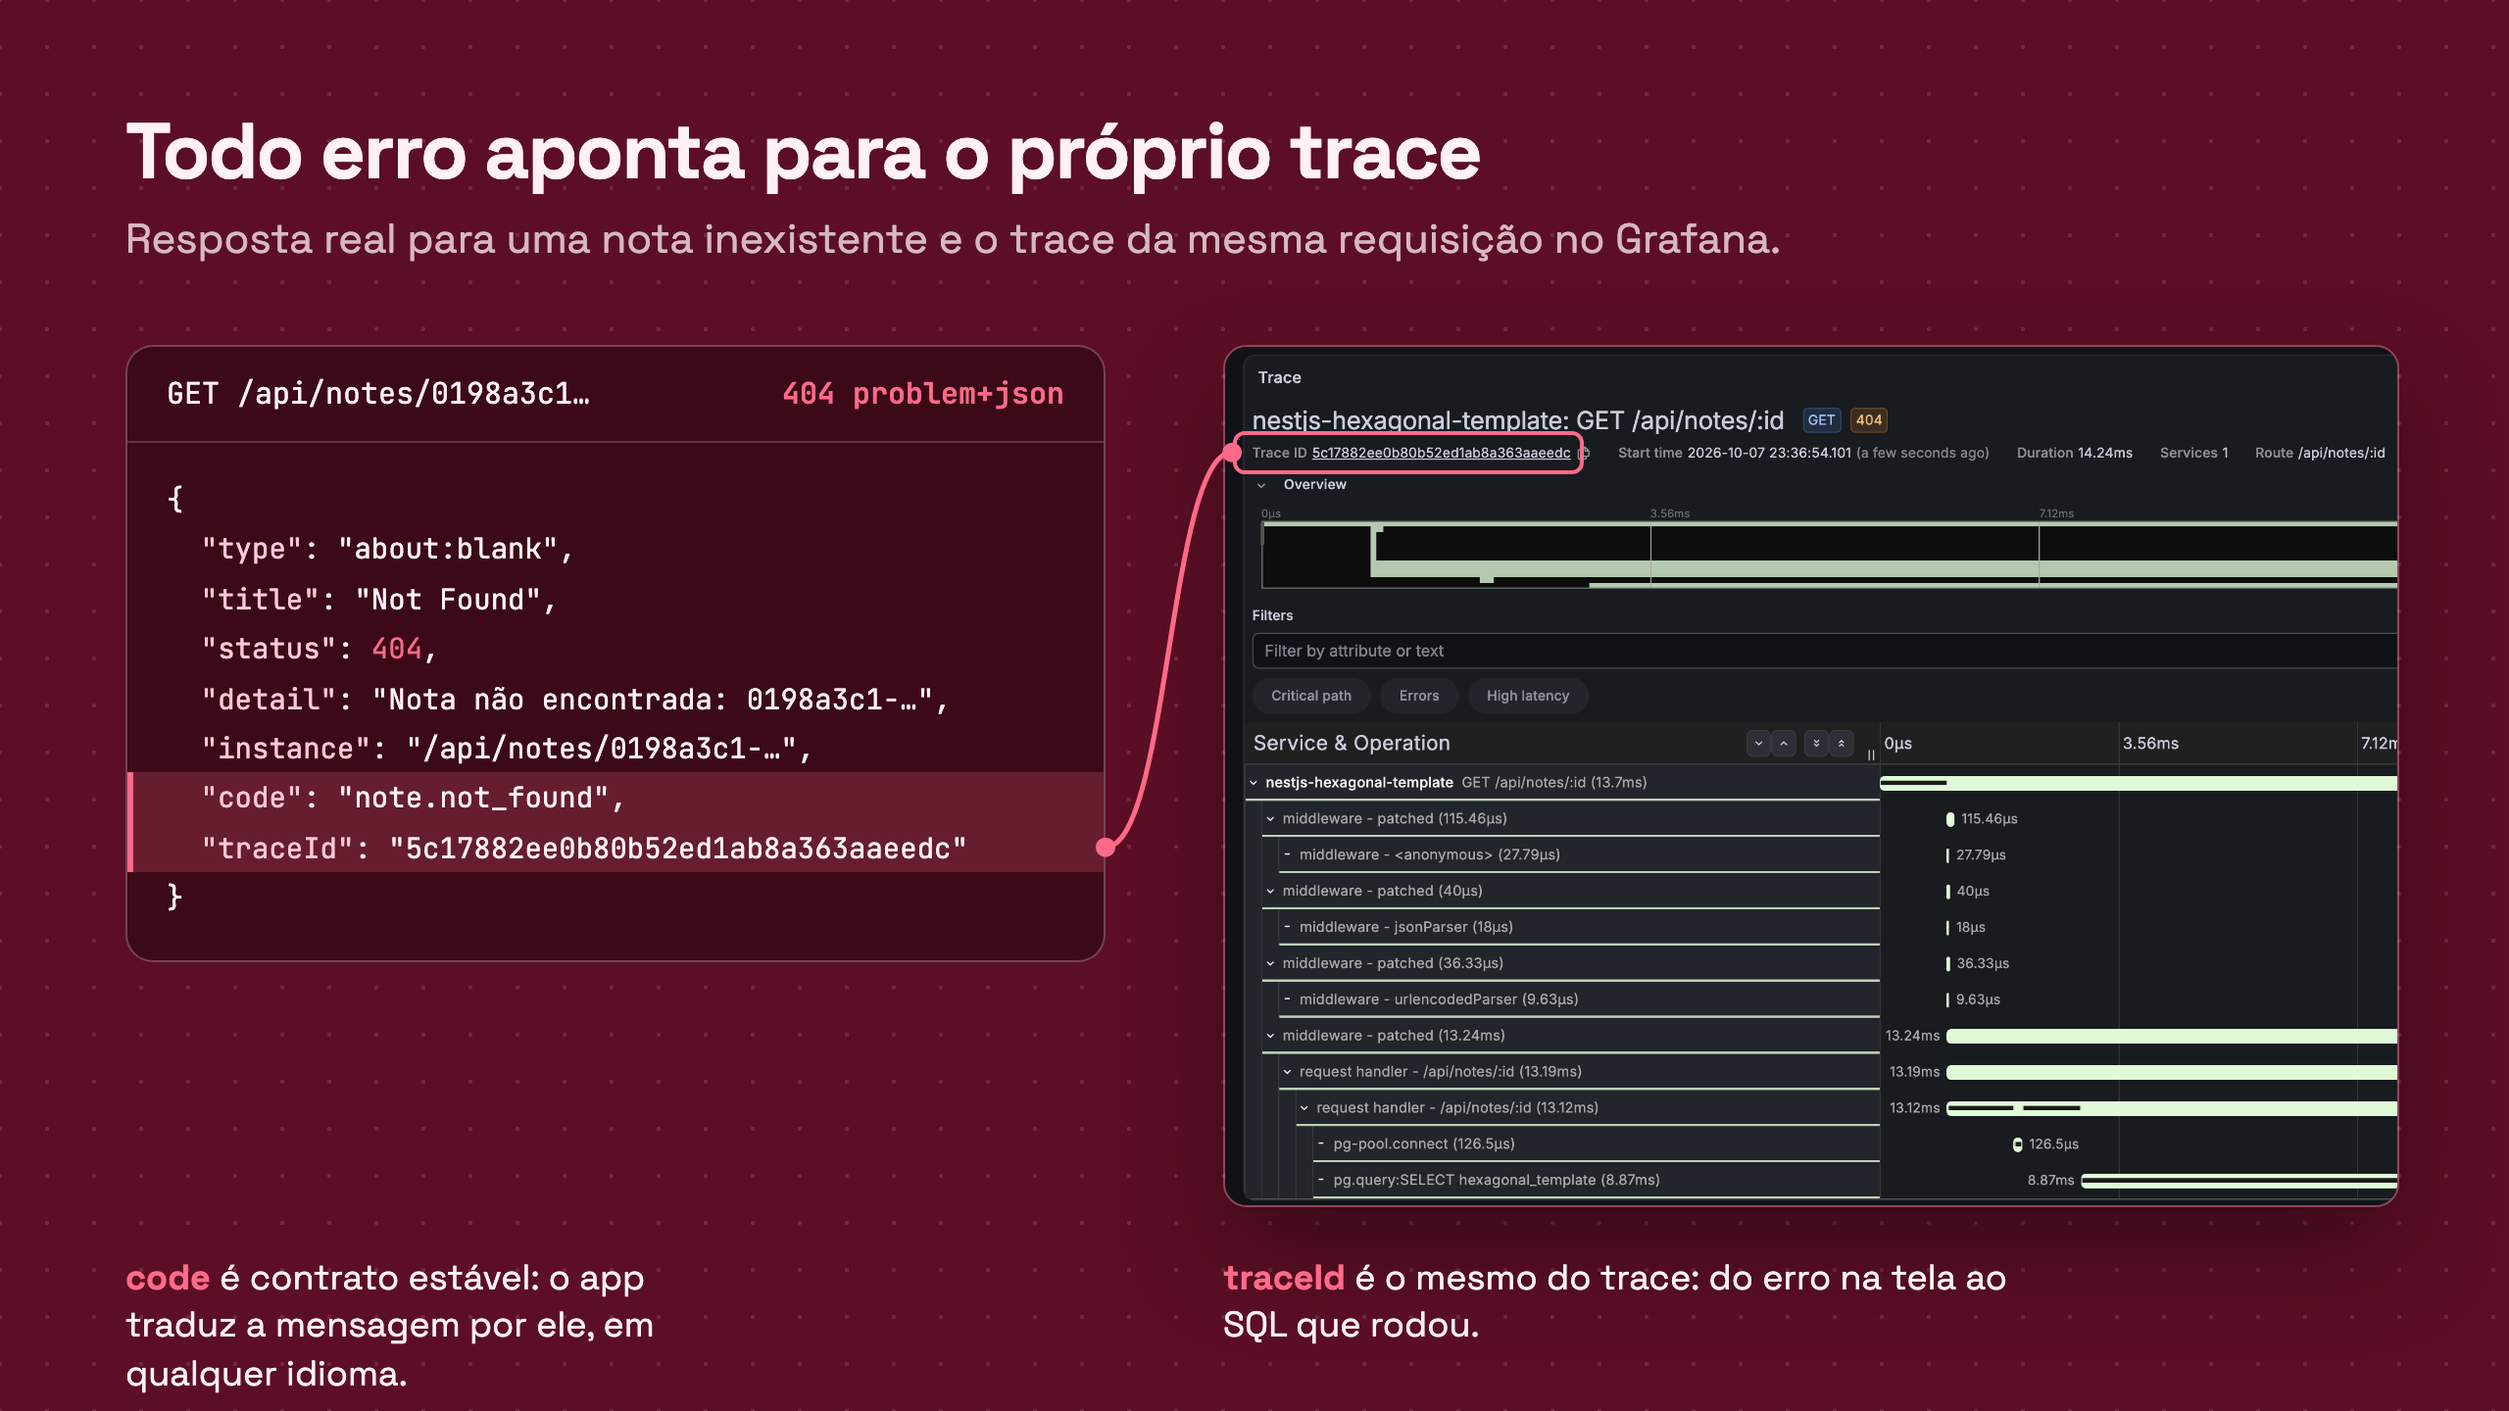
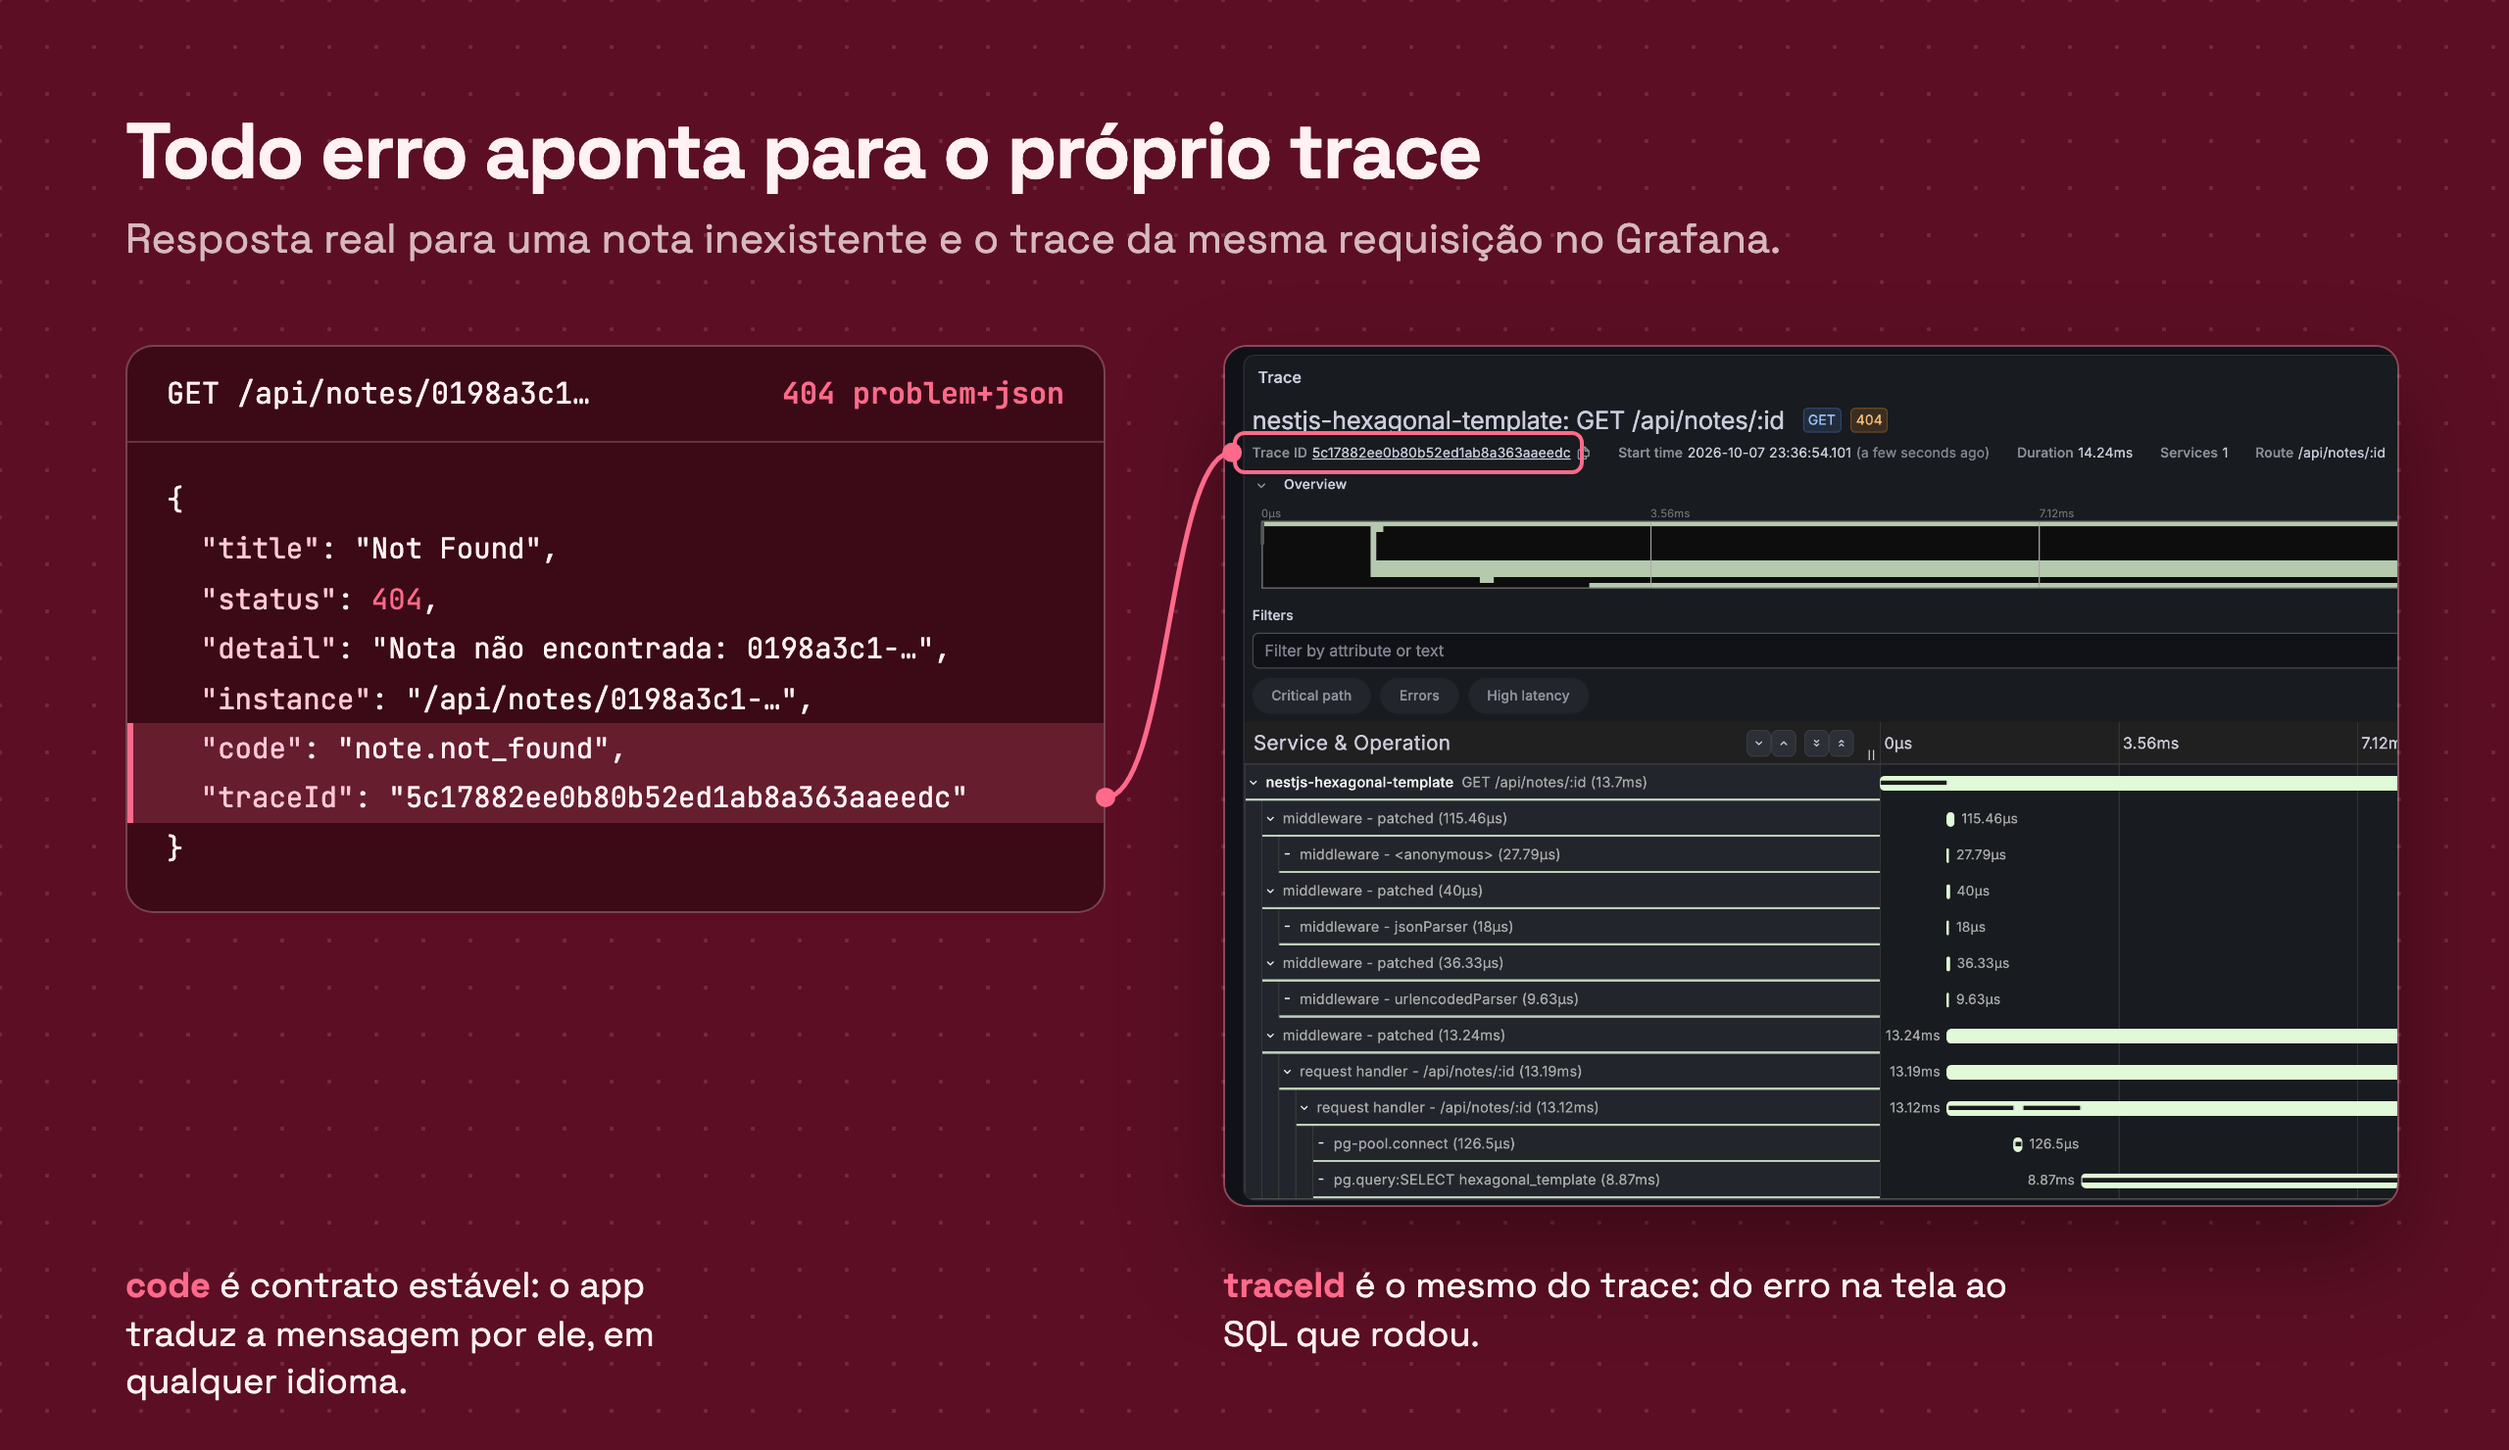
docs: refresh README art with the aligned error contract

diff --git a/README.md b/README.md
@@ -102,7 +102,7 @@ declara uma porta. O passo a passo está em [docs/ARCHITECTURE.md](docs/ARCHITEC
 
 Os dois backends têm a mesma arquitetura, os mesmos contratos HTTP, os mesmos códigos de erro e
 os mesmos tipos de teste. O time escolhe a linguagem que domina sem abrir mão do desenho, e o app
-mobile lê os erros de qualquer um dos dois sem adaptação.
+mobile funciona com qualquer um dos dois sem mudar uma linha.
 
 ## Comece em um minuto
 
